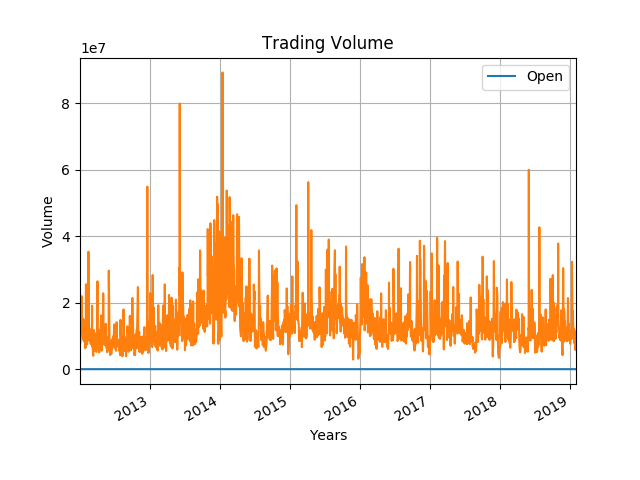
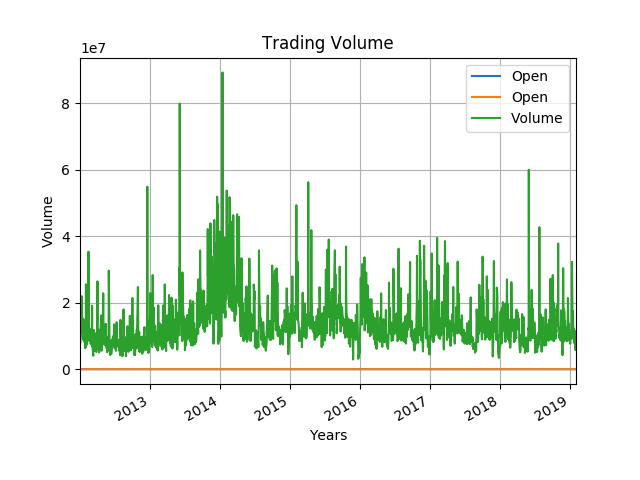
6/21/19

Changed region(s): [[0.125, 0.1562, 0.9062, 0.7812], [0.7188, 0.125, 0.9062, 0.2812]]

diff --git a/finance_app/templates/finance_app/view_plot.html b/finance_app/templates/finance_app/view_plot.html
@@ -7,7 +7,7 @@
 
 <img style="width: 50%; height: 50%;" alt="Image description"src="{% static 'finance_app/graphs/plot1.png' %}"/>
 <img style="width: 50%; height: 50%;" alt="Image description" src="{% static 'finance_app/graphs/plot2.png' %}"/>
-<img style="width: 50%; height: 50%;" alt="Image description" src="{% static 'finance_app/graphs/plot3.png' %}"/>
+<img style="width: 50%; height: 50%;" alt="Image description" src="{% static 'finance_app/graphs/s_p_plot.png' %}"/>
 
 {% comment %} <img style="width: 245px; height: 247px;" alt="Image description"src="{% static 'finance_app/graphs/plot2.png' %}"/> {% endcomment %}
 {% comment %} <img style="width: 245px; height: 247px;" alt="Image description"src="{% static 'finance_app/graphs/plot3.png' %}"/> {% endcomment %} 

diff --git a/finance_app/views.py b/finance_app/views.py
@@ -47,10 +47,8 @@ def choose_equity(request):
 def display_data(stock1):
     start = datetime.datetime(2012, 1, 1)
     end = datetime.datetime(2019, 2, 1)
-    equity1 = web.DataReader(stock1, 'yahoo', start, end)
-    # equity2 = web.DataReader(stock2, 'yahoo', start, end)
     
-   
+    equity1 = web.DataReader(stock1, 'yahoo', start, end)
     
     
     plot1 = equity1['Open'].plot(title='Open Price')
@@ -63,19 +61,31 @@ def display_data(stock1):
     my_path = "/Users/jschmidt/Desktop/pythonbootcam/workspace/blue_badge_ind/finance_project/finance_app/static/finance_app/graphs"
     plt.savefig(my_path+'/plot1.png')
     
+    s_p_dat = web.DataReader('^GSPC','yahoo',start, end)
+    s_p_plot = s_p_dat['Open'].plot(title='Open Price')
+    plt.grid()
+    plt.ylabel('Price')
+    plt.xlabel('Years')
+    plt.legend()
+    plt.savefig(my_path+'/s_p_plot.png')
+    
     plot2 = equity1['Volume'].plot(title='Trading Volume')
     plt.grid()
     plt.ylabel('Volume')
     plt.xlabel('Years')
-    plt.savefig(my_path+'/plot2.png')    
-    my_path = "/Users/jschmidt/Desktop/pythonbootcam/workspace/blue_badge_ind/finance_project/finance_app/static/finance_app/graphs"
+    plt.legend()
+      
+    plt.savefig(my_path+'/plot2.png')   
 
-    plot3 = equity1['Close'].plot(title='Close Price')
-    plt.grid()
-    plt.ylabel('Price')
-    plt.xlabel('Years')
-    plt.savefig(my_path+'/plot3.png')
+    # plot3 = equity1['Close'].plot(title='Close Price')
+    # plt.grid()
+    # plt.ylabel('Price')
+    # plt.xlabel('Years')
+    # plt.legend()
+    
+    # plt.savefig(my_path+'/plot3.png')
 
+    
 
 def display_equity(request):
     display_data(request.POST['equity_name'])
